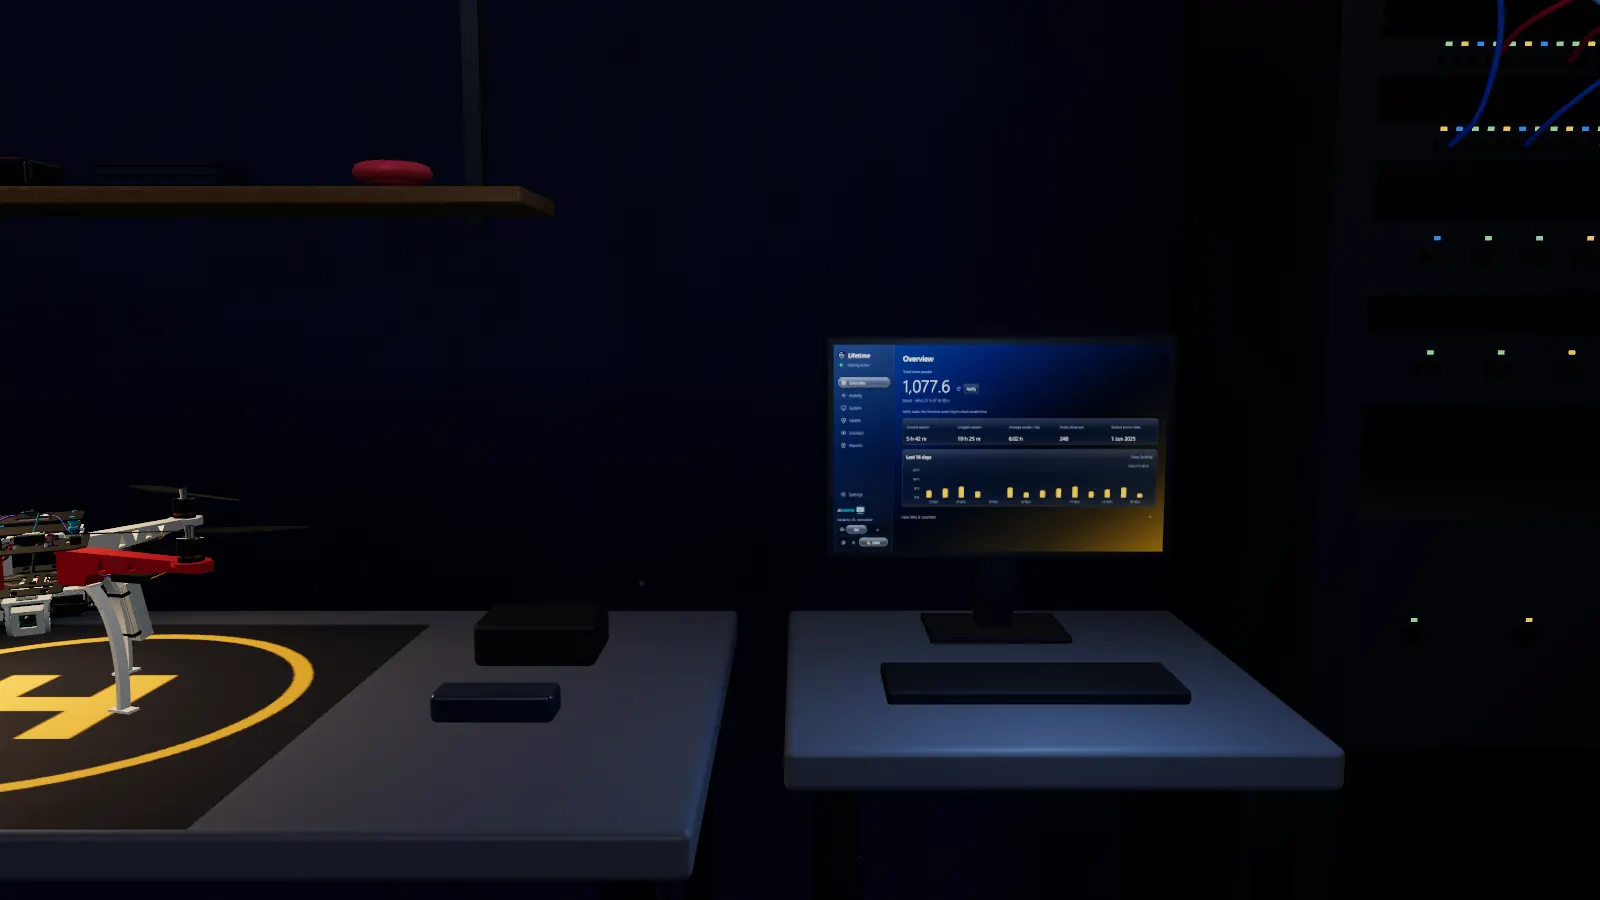
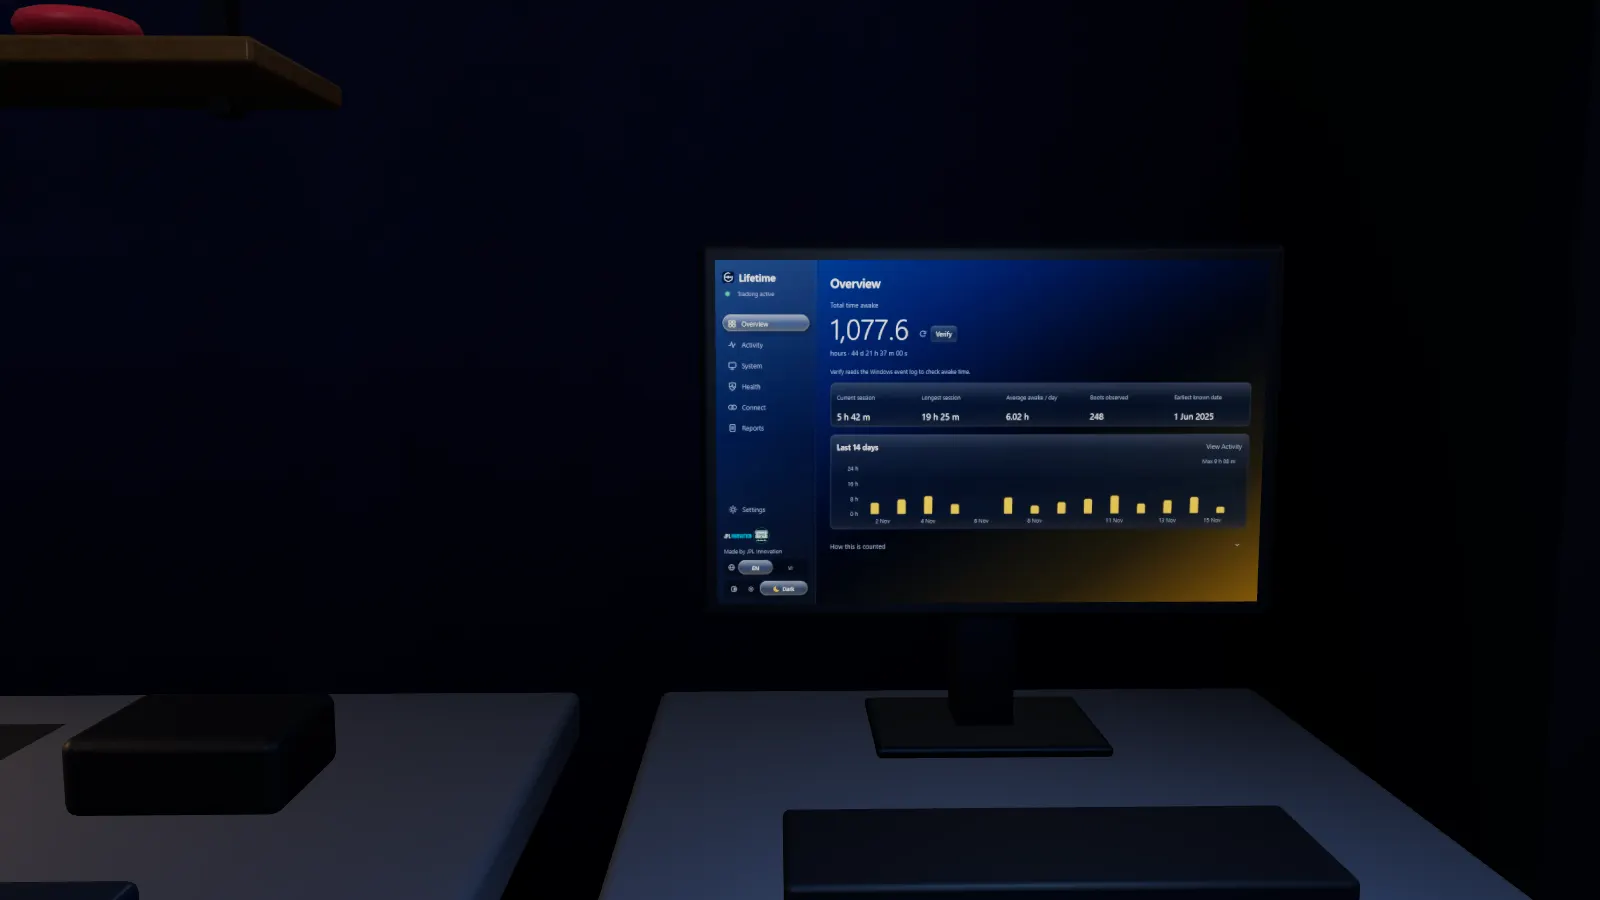
Studio: the Lifetime monitor opens, and works
Click the software stand's monitor (or Open Lifetime) and the camera flies in until it is the window: Lifetime, with a
tab bar for its pages. Overview and Activity are the app's real screens (said so under them); Server is the Lifetime
page's lab demo in hand mode: the time slider, the desks, the filters, the style, theme and language switches, and
Play the day, which runs the lab from mid-morning (the outage at 10:30 included) to the evening in 24 s. The scene's
camera sits closer to the monitor. check-studio.py opens it like the other devices.

diff --git a/src/lib/studio/devices.ts b/src/lib/studio/devices.ts
@@ -7,6 +7,8 @@
  *                                 clock, with its telemetry in a panel beside it
  *   networks   the switch rack    up to its front, then the CCNA lab's console (src/components/IosTerminal.astro)
  *   robotics   the robot's cart   a three-quarter view; the robot turns, and comes apart into its CAD parts on a slider
+ *   software   the software stand's monitor   as the desk monitor: the screen becomes the window, then Lifetime is
+ *                                 there (its real screens, and the server's live demo: src/components/lifetime/LifetimeScreen.astro)
  *
  * Each device knows what to pick (for the pointer) and where the camera ends up. The engine flies there (engine.ts).
  */
@@ -14,7 +16,7 @@ import { Matrix4, type Mesh, type Object3D, type PerspectiveCamera, type Quatern
 import type { Room } from "./room";
 import type { SimFlight } from "./sim-flight";
 
-export const DEVICE_IDS = ["research", "web", "networks", "robotics"] as const;
+export const DEVICE_IDS = ["research", "web", "networks", "robotics", "software"] as const;
 export type DeviceId = (typeof DEVICE_IDS)[number];
 
 export interface Device {
@@ -48,7 +50,7 @@ function fillPose(mesh: Mesh, camera: PerspectiveCamera, at: Vector3, q: Quatern
 }
 
 export function createDevices(room: Room, sim: SimFlight): Record<DeviceId, Device> {
-	const { monitor, robot, rack, laptop } = room.parts;
+	const { monitor, robot, rack, laptop, software } = room.parts;
 	const rackFrom = rack.center.clone().add(new Vector3(0, 0, 1.15));
 	// The robot from the front right and a little above; the point looked at sits to the robot's right, so it stands in
 	// the left of the window, clear of the panel on the right.
@@ -61,5 +63,6 @@ export function createDevices(room: Room, sim: SimFlight): Record<DeviceId, Devi
 		web: { id: "web", pick: [laptop], pose: (at, q) => sim.feedPose(at, q) },
 		networks: { id: "networks", pick: [rack.group], pose: (at, q) => lookPose(rackFrom, rack.center, at, q) },
 		robotics: { id: "robotics", pick: [robot.holder], pose: (at, q) => lookPose(robotFrom, robotTo, at, q) },
+		software: { id: "software", pick: [software], pose: (at, q, camera) => fillPose(software, camera, at, q) },
 	};
 }

diff --git a/src/text/projects/lifetime.ts b/src/text/projects/lifetime.ts
@@ -28,6 +28,9 @@ export const lifetimePage = {
 		heading: "One school day, as the server sees it",
 		intro:
 			"A computer lab with 22 computers, from six in the morning to six in the evening. Scroll and the day runs: computers wake for lessons and sleep after them, a new one joins, and at 10:30 the server goes down for two hours.",
+		/** In the 3D studio's monitor, where the page doesn't scroll the day: the same lab, run by the button or the slider. */
+		introHand:
+			"A computer lab with 22 computers, from six in the morning to six in the evening. Press Play the day, or move the time slider: computers wake for lessons and sleep after them, a new one joins, and at 10:30 the server goes down for two hours.",
 		/** The one plain caption that says what this is. */
 		caption: "A simulation of the Lifetime Server interface, built in HTML for this page. The lab and its numbers are made up: no customer's data.",
 		/** Read by screen readers for the app window. */
@@ -40,6 +43,9 @@ export const lifetimePage = {
 			theme: "Theme",
 			dark: "Dark",
 			light: "Light",
+			/** In the 3D studio's monitor: runs the day on its own. */
+			play: "Play the day",
+			pause: "Pause",
 		},
 		plan: {
 			label: "Plan of the lab: 21 desks in three rows, the teacher's desk and the server cabinet. A lit screen is an awake computer. Use the arrow keys to pick a computer.",

diff --git a/src/lib/studio/room.ts b/src/lib/studio/room.ts
@@ -285,7 +285,7 @@ export interface Room {
 	/** The build bench (build-bench.ts): the opening hook's drone stands on it, and says so with `occupied`. */
 	bench: BuildBench;
 	/** What the camera can fly into (devices.ts). */
-	parts: { monitor: PageScreen; robot: Stations["robot"]; rack: Stations["rack"]; laptop: Group; drone: Stations["bench"] };
+	parts: { monitor: PageScreen; robot: Stations["robot"]; rack: Stations["rack"]; laptop: Group; software: Mesh; drone: Stations["bench"] };
 	/** True while a screen is moving because the visitor scrolled or pointed at it (the stage keeps full speed). */
 	busy(): boolean;
 	/** The sketchbook is drawn at once (a jump to its scene, the stills), instead of over a few seconds. */
@@ -563,7 +563,7 @@ export async function buildRoom(ctx: StageContext, content: RoomContent): Promis
 		logo,
 		stationDrone: stations.drone,
 		bench,
-		parts: { monitor, robot: stations.robot, rack: stations.rack, laptop: stations.laptop, drone: stations.bench },
+		parts: { monitor, robot: stations.robot, rack: stations.rack, laptop: stations.laptop, software: stations.software, drone: stations.bench },
 		busy: () => busy || bench.busy() || stations.bench.busy() || (sketchStart >= 0 && sketchShow.value < 1),
 		finishSketch() {
 			sketchDone = true;

diff --git a/src/text/studio.ts b/src/text/studio.ts
@@ -61,6 +61,18 @@ export const devices = {
 		/** Said with it, so nobody reads it as a flight. */
 		note: "Its props spin up; it stays on the bench. It hasn't flown yet.",
 	},
+	software: {
+		enter: "Open Lifetime",
+		title: "Lifetime, on the software stand",
+		/** The window's tabs. Overview and Activity are the app's real screens; Server runs the lab demo. */
+		tabsLabel: "Lifetime's pages",
+		tabs: { overview: "Overview", activity: "Activity", server: "Server" },
+		overviewAlt: "The Lifetime desktop app's Overview: total awake time, the current and longest sessions, and the last 14 days",
+		activityAlt: "The desktop app's Activity page: a calendar of awake hours, daily awake hours, the lifetime total and the hour-of-day profile",
+		/** Under the real screens, so nobody reads a screenshot as live. */
+		shotNote: "A screenshot of the app.",
+		page: "The Lifetime page",
+	},
 	cart: {
 		enter: "Take the robot apart",
 		title: "The KitBot, part by part",

diff --git a/src/lib/studio/scenes.ts b/src/lib/studio/scenes.ts
@@ -42,8 +42,8 @@ export const SHOTS: Record<string, SceneShot> = {
 	 */
 	robotics: { id: "robotics", camera: [-1.1, 1.35, -0.3], target: [-1.1, 0.75, -2.6] },
 	drones: { id: "drones", camera: [1.85, 1.4, -0.6], target: [1.85, 1.0, -2.6] },
-	/** (Software: the small stand between the drones' bench and the rack, close enough to read its monitor.) */
-	software: { id: "software", camera: [2.3, 1.3, -1.2], target: [2.3, 1.12, -2.8] },
+	/** (Software: the small stand between the drones' bench and the rack, close in, the monitor right of centre.) */
+	software: { id: "software", camera: [2.4, 1.2, -1.85], target: [2.42, 1.1, -2.86] },
 	networks: { id: "networks", camera: [2.85, 1.45, -0.4], target: [2.85, 1.25, -2.9] },
 	/** (The test bench: closer than the others, so the laptop's page can be read.) */
 	web: { id: "web", camera: [-2.3, 1.17, -1.75], target: [-2.3, 0.99, -2.6] },

diff --git a/src/lib/studio/stations.ts b/src/lib/studio/stations.ts
@@ -65,6 +65,8 @@ export interface Stations {
 	robot: { holder: Group; center: Vector3; explode(amount: number): void; turn(angle: number): void };
 	rack: { group: Group; center: Vector3 };
 	laptop: Group;
+	/** The software stand's monitor (Lifetime on it): the camera flies in until it fills the window. */
+	software: Mesh;
 	/** The F450 on its bench: arm it and its props spin up for a few seconds, then wind down. It never lifts off. */
 	bench: { holder: Group; arm(): void; busy(): boolean };
 	update(state: RoomState, dt: number): void;
@@ -859,6 +861,7 @@ export async function buildStations(ctx: StageContext, parent: Group, content: R
 		},
 		rack: { group: rack, center: new Vector3(rackX, 1.45, rackFront) },
 		laptop: lid,
+		software: softScreen,
 		bench: {
 			holder: droneHolder,
 			arm: () => (armedUntil = clock + ARMED_FOR),

diff --git a/scripts/check-studio.py b/scripts/check-studio.py
@@ -7,7 +7,8 @@ The 3D studio's checks (the home page in 3D: src/components/Studio.astro, src/li
     python scripts/check-studio.py --port 4413 --shots  also saves every scene and every open device, both themes, at
                                                         1440 x 900, under screenshots/studio/
 
-Checks: each device you can enter (the desk monitor, the test bench's laptop, the rack, the robot's cart) opens from
+Checks: each device you can enter (the desk monitor, the test bench's laptop, the rack, the robot's cart, the software
+stand's Lifetime monitor) opens from
 its button with the keyboard and from a click on the device in the room; what opens is real HTML with something to
 focus; Back and Escape close it and focus returns to the button; no console errors; frame times while the camera moves
 between scenes.
@@ -34,6 +35,7 @@ DEVICES = {
     "web": {"at": (360, 420), "inside": "[data-flight-toggle]"},
     "networks": {"at": (950, 420), "inside": "#ios-command, [data-ios-terminal] [role=tab]"},
     "robotics": {"at": (980, 560), "inside": "input[type=range][data-explode]"},
+    "software": {"at": (900, 420), "inside": "[data-lts-tab]"},
 }
 
 
